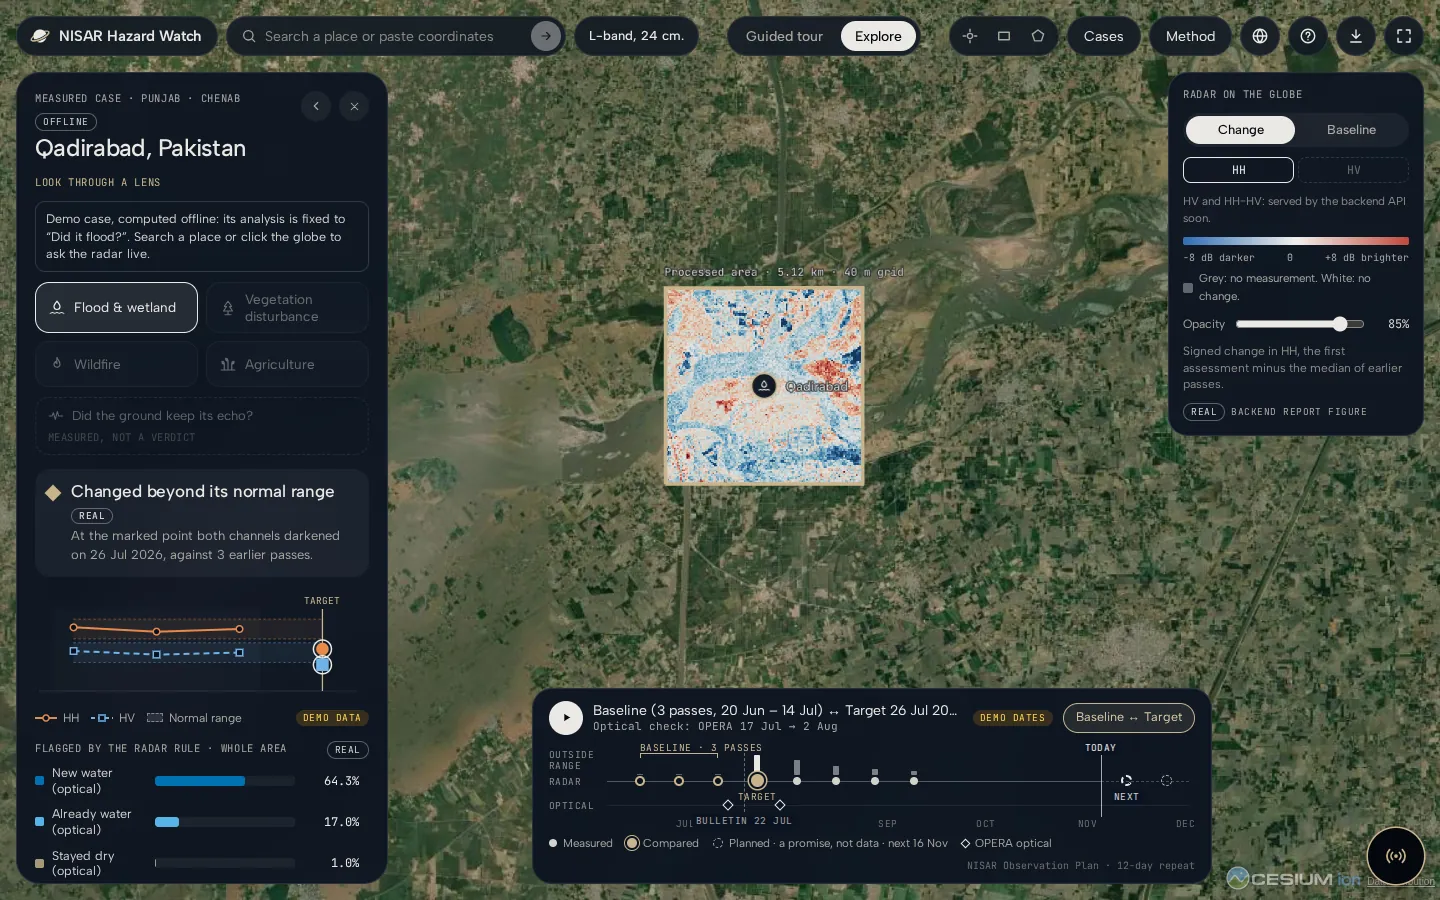
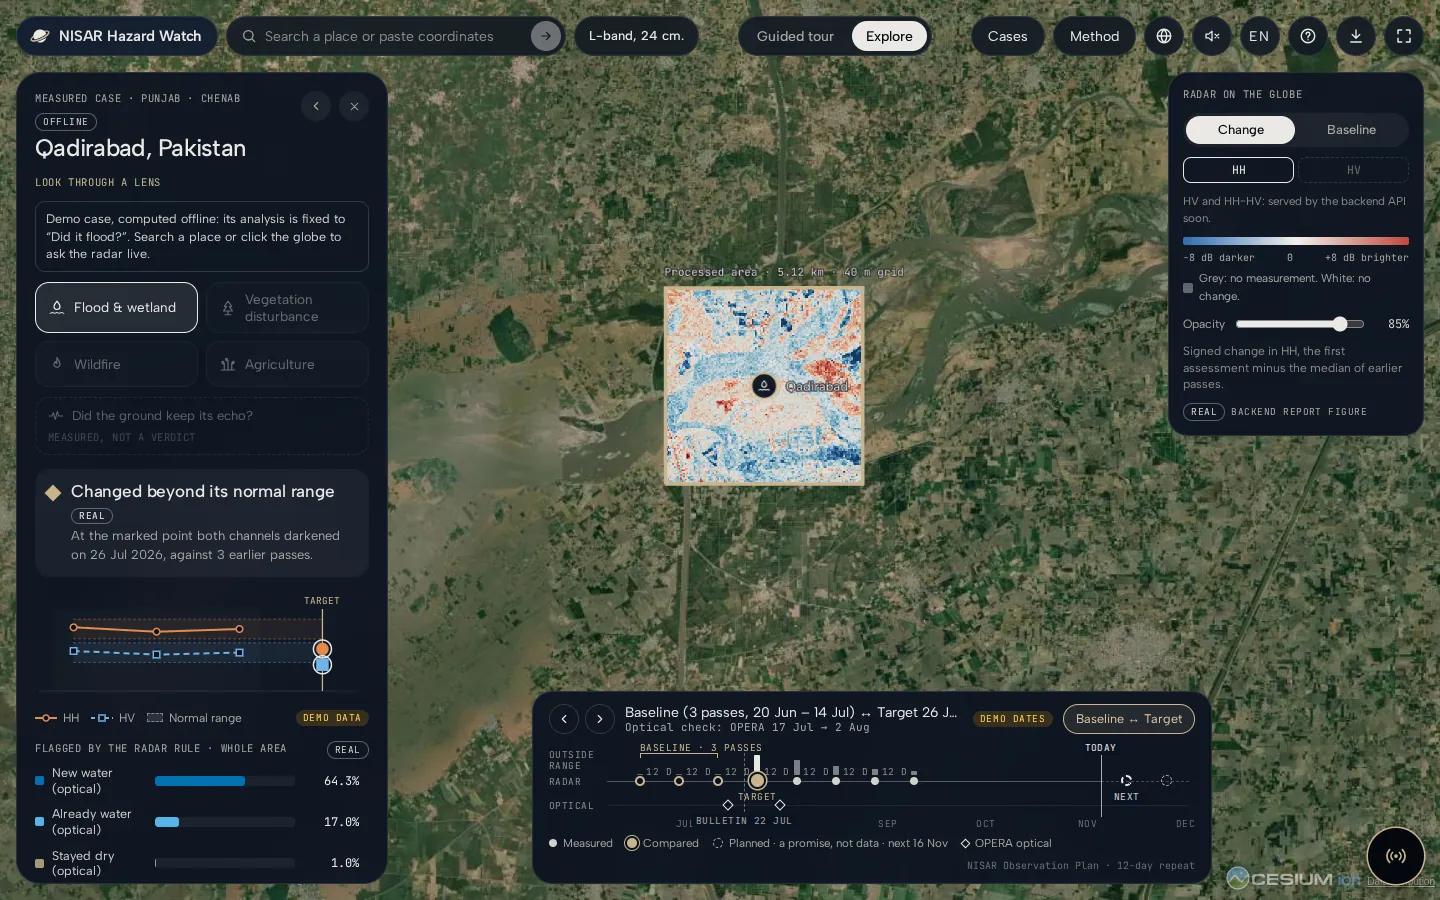
docs(readme): re-shoot the explorer for the v9 square, confirm panel and timeline
Production shots of a placed square with its bar, the confirm panel
(1440 and 390 px), the Qadirabad case with the v9 timeline, its More
information sheet, the start card and the guided story. The live
question text follows the v9 flow. Refs #40.

Changed region(s): [[0.375, 0.7467, 0.8438, 0.84], [0.5, 0.0, 0.8438, 0.0622]]

diff --git a/README.md b/README.md
@@ -139,7 +139,7 @@ Shareable explorer links: `/explore?case=qadirabad` opens a measured case;
 
 ## The explorer
 
-<img src="assets/readme/explorer-case-qadirabad.webp" alt="Explorer on the Qadirabad case: the real change crop draped on the globe, the case panel with the verdict, band chart and flagged-cell bars, the layer dock and the pass timeline" width="100%">
+<img src="assets/readme/explorer-case-qadirabad.webp" alt="Explorer on the Qadirabad case: the real change crop draped on the globe, the case panel with the verdict, band chart and flagged-cell bars, the layer dock and the pass timeline with the days between passes" width="100%">
 
 <p align="center"><b>A measured case:</b> Qadirabad, Pakistan. The verdict, the real contrast bars and the report's change crop on the globe; the band chart and timeline dates are labelled demo.</p>
 
@@ -153,11 +153,13 @@ Shareable explorer links: `/explore?case=qadirabad` opens a measured case;
 - **Layer dock:** the report's change or baseline crop draped on the globe, with an opacity slider.
 - **Pass timeline:** baseline, target, measured and planned passes, the optical lane and the next
   planned pass.
-- **Live question:** hover any land to see its NISAR frame, click to ask about it. The frame's
-  passes are fetched live from the Observation Plan and the radar answer comes from the backend: a
+- **Live question:** click any land (or search a place or coordinates) to place a 10 × 10 km
+  square; the bar says "Square placed" and nothing runs yet. "Use this square" opens the confirm
+  panel: what the radar should look for (Earthquake, Wildfire, Deforestation, Flood), the real
+  passes it will read and "Start analysis". The answer comes from the backend: a
   progress window with a countdown and NASA facts, then the verdict, the target pass against the
   normal range, the whole-area bars, the quality strip, the measured layers on the globe and the
-  real pass dates. On the ground-motion lens the user first picks one of the NISAR interferometric pairs over the spot and a coherence threshold; the answer is the pair's coherence and wrapped phase on the globe, labelled a measurement, never a verdict, with displacement always stated as not reported. On the wildfire lens an "Independent fire context" block from NASA FIRMS sits
+  real pass dates. On Earthquake (the InSAR lens) the user first picks one of the NISAR interferometric pairs over the spot and a coherence threshold; the answer is the pair's coherence and wrapped phase on the globe, labelled a measurement, never a verdict, with displacement always stated as not reported. On the wildfire lens an "Independent fire context" block from NASA FIRMS sits
   apart from the radar (counts and dates of active-fire detections, never a cause or a burned
   area), and says so when it is missing. "Keep exploring" lets the job run in the background; the band label reads
   "L-band, 24 cm.", the band every answer uses.
@@ -170,7 +172,7 @@ Shareable explorer links: `/explore?case=qadirabad` opens a measured case;
 
 <table>
   <tr>
-    <td width="50%"><img src="assets/readme/explorer-start.webp" alt="Explorer start card, What did the radar see?, listing the six measured cases over the globe with their markers"></td>
+    <td width="50%"><img src="assets/readme/explorer-start.webp" alt="Explorer start card, What did the radar see?, listing the five measured cases over the globe with their markers"></td>
     <td width="50%"><img src="assets/readme/explorer-sheet-qadirabad.webp" alt="More information sheet for Qadirabad: the question, the real nova-frontier-model report figure, how it was computed, evidence and quality, sources"></td>
   </tr>
   <tr>
@@ -178,11 +180,24 @@ Shareable explorer links: `/explore?case=qadirabad` opens a measured case;
     <td align="center"><b>More information</b><br><sub>The real report figure, how it was computed, evidence, sources</sub></td>
   </tr>
   <tr>
-    <td width="50%"><img src="assets/readme/phone-landing.webp" alt="Landing page on a phone, 390 px wide: the headline, the intro and the two buttons over the Earth" width="60%"></td>
-    <td width="50%"><img src="assets/readme/phone-explorer-case-qadirabad.webp" alt="Explorer on a phone, 390 px wide: the Qadirabad change crop on the globe, the pass timeline and the case panel as a bottom sheet" width="60%"></td>
+    <td width="50%"><img src="assets/readme/explorer-square.webp" alt="A 10 × 10 km square placed near Qadirabad, Pakistan, with Drag to move and the bar: Square placed, about 105 km², nothing runs yet, Cancel and Use this square"></td>
+    <td width="50%"><img src="assets/readme/explorer-confirm.webp" alt="Confirm panel after Use this square: What should the radar look for?, with Earthquake, Wildfire, Deforestation and Flood chips, the five passes to read from 14 Jul to 11 Nov 2026 and Start analysis"></td>
+  </tr>
+  <tr>
+    <td align="center"><b>Place a square</b><br><sub>Nothing runs until you confirm</sub></td>
+    <td align="center"><b>Confirm the analysis</b><br><sub>The phenomenon and the real passes to read</sub></td>
+  </tr>
+</table>
+
+<table>
+  <tr>
+    <td width="33%"><img src="assets/readme/phone-landing.webp" alt="Landing page on a phone, 390 px wide: the headline, the intro and the two buttons over the Earth"></td>
+    <td width="33%"><img src="assets/readme/phone-explorer-confirm.webp" alt="Confirm panel on a phone, 390 px wide: the square on the globe above a bottom sheet with the four phenomena, the five passes and Start analysis"></td>
+    <td width="33%"><img src="assets/readme/phone-explorer-case-qadirabad.webp" alt="Explorer on a phone, 390 px wide: the Qadirabad change crop on the globe, the pass timeline and the case panel as a bottom sheet"></td>
   </tr>
   <tr>
     <td align="center"><b>On a phone</b><br><sub>Landing at 390 px</sub></td>
+    <td align="center"><b>On a phone</b><br><sub>The confirm panel at 390 px</sub></td>
     <td align="center"><b>On a phone</b><br><sub>The Qadirabad case at 390 px</sub></td>
   </tr>
 </table>
